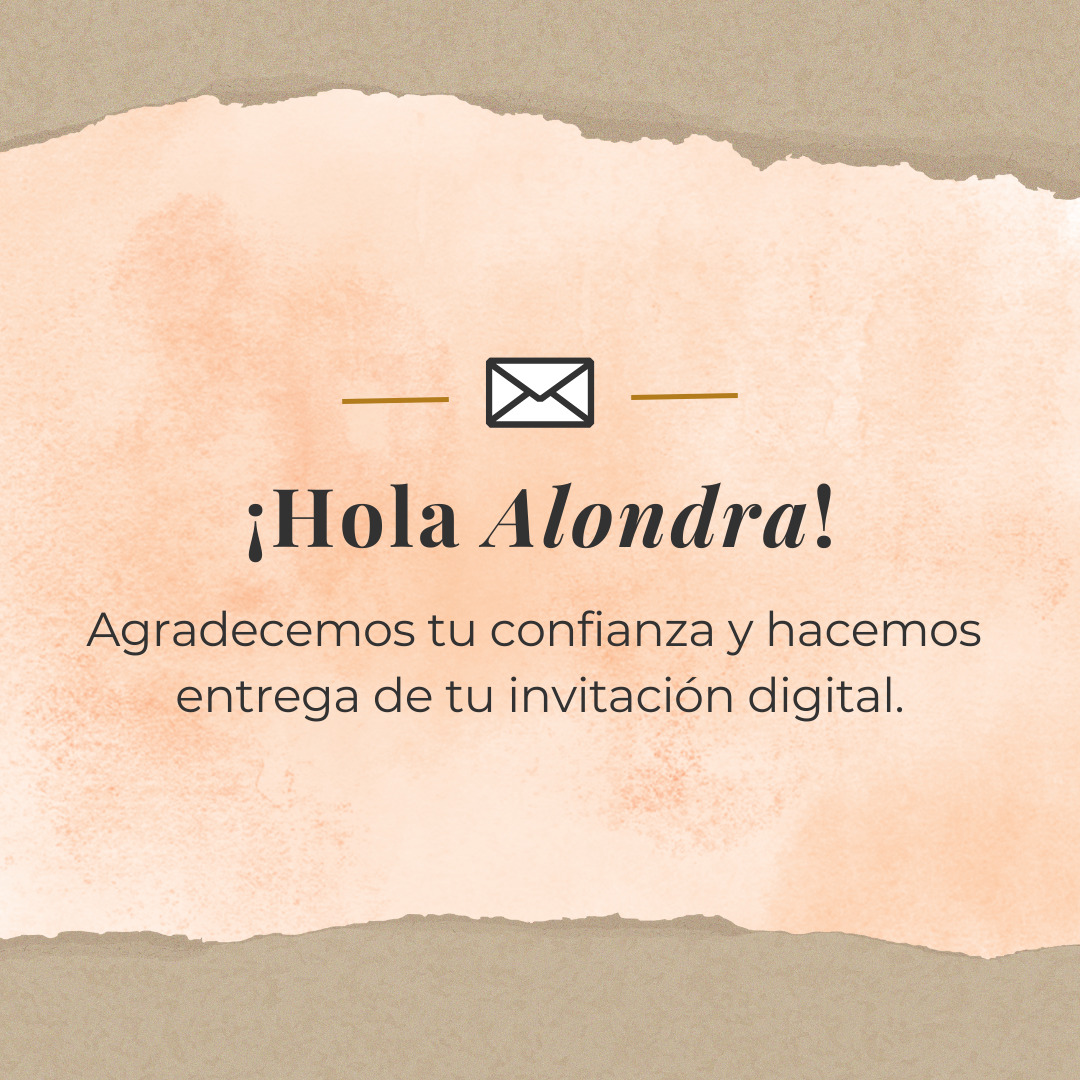
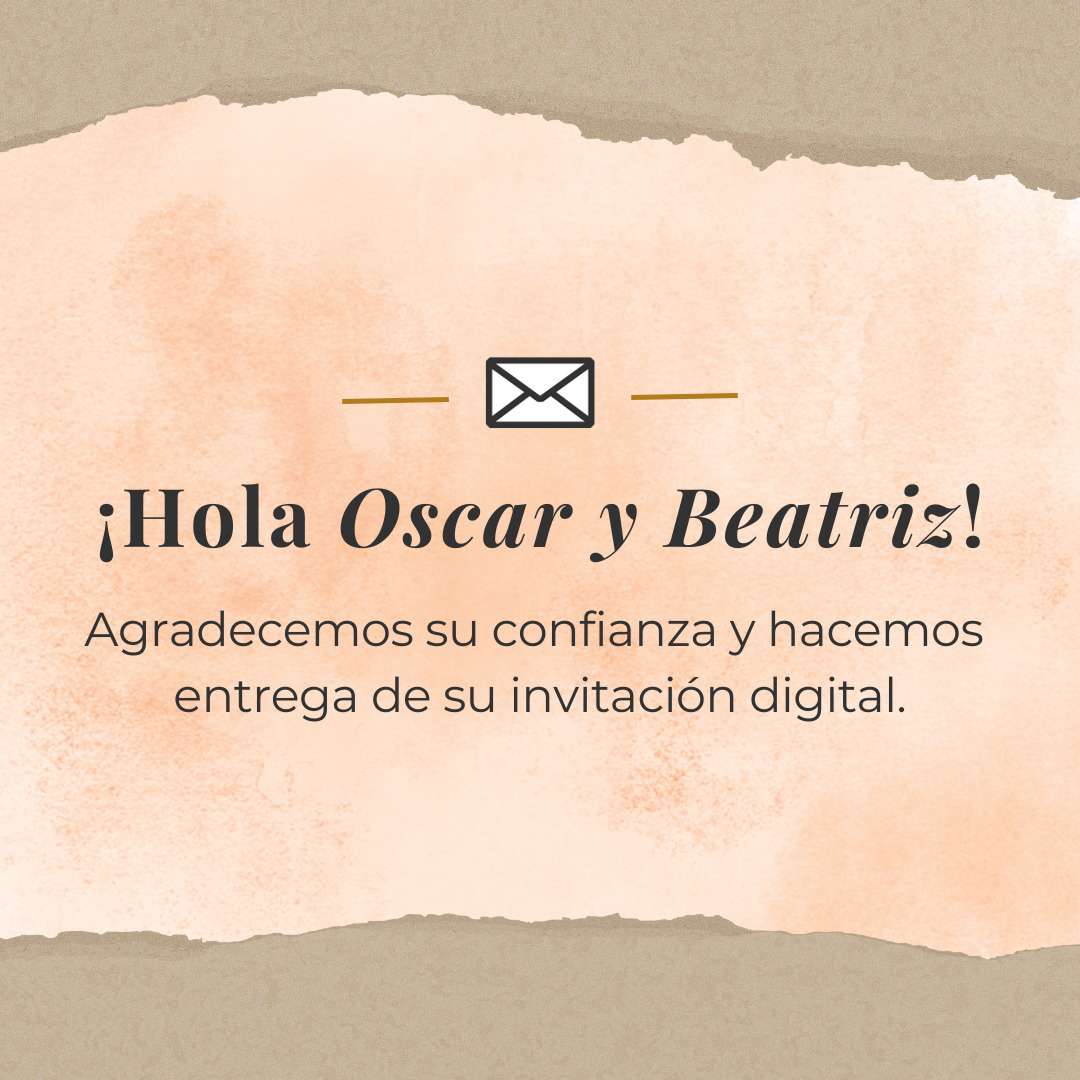
twelve commit

diff --git a/inicio.html b/inicio.html
@@ -7,14 +7,14 @@
     <noscript>
             <meta http-equiv="refresh" content="60">
         </noscript>
-        <meta name="description" content="Te invitamos a ser parte de este momento tan especial."/>
+        <meta name="description" content="Estás invitado a ser parte de este momento tan especial."/>
         <meta property="og:locale" content="es_ES"/>
         <meta property="og:type" content="website"/>
-        <meta property="og:title" content="Alondra & Eduardo | ¡NUESTRA BODA!"/>
-        <meta property="og:description" content="Te invitamos a ser parte de este momento tan especial."/>
-        <meta property="og:url" content="https://labodadealondrayeduardo.github.io/inicio.html"/>
+        <meta property="og:title" content="María José |  ¡MIS XV AÑOS!"/>
+        <meta property="og:description" content="Estás invitado a ser parte de este momento tan especial."/>
+        <meta property="og:url" content="https://misxvmariajose.github.io/inicio.html"/>
         <meta property="article:modified_time" content="2023-02-19T17:24:46+00:00"/>
-        <meta property="og:image" content="https://labodadealondrayeduardo.github.io/img/portadaMensaje.jpg"/>
+        <meta property="og:image" content="https://misxvmariajose.github.io/img/portadaMensaje.jpg"/>
         <meta property="og:image:width" content="1080"/>
         <meta property="og:image:height" content="1080"/>
         <meta property="og:image:type" content="image/jpeg"/>
@@ -25,60 +25,60 @@
       "@graph": [
           {
               "@type": "Organization",
-              "@id": "https://labodadealondrayeduardo.github.io/inicio.html/#/schema/Organization/1",
-              "name": "Alondra & Eduardo | ¡NUESTRA BODA!",
-              "url": "https://labodadealondrayeduardo.github.io/inicio.html",
+              "@id": "https://misxvmariajose.github.io/inicio.html/#/schema/Organization/1",
+              "name": "María José |  ¡MIS XV AÑOS!",
+              "url": "https://misxvmariajose.github.io/inicio.html",
               "sameAs": [
               ],
               "logo": {
                   "@type": "ImageObject",
-                  "@id": "https://labodadealondrayeduardo.github.io/img/portadaMensaje.jpg",
-                  "url": "https://labodadealondrayeduardo.github.io/img/portadaMensaje.jpg",
-                  "contentUrl": "https://labodadealondrayeduardo.github.io/img/portadaMensaje.jpg",
+                  "@id": "https://misxvmariajose.github.io/img/portadaMensaje.jpg",
+                  "url": "https://misxvmariajose.github.io/img/portadaMensaje.jpg",
+                  "contentUrl": "https://misxvmariajose.github.io/img/portadaMensaje.jpg",
                   "width": 1080,
                   "height": 1080,
                   "caption": "Example Image"
               },
               "image": {
-                  "@id": "https://labodadealondrayeduardo.github.io/img/portadaMensaje.jpg"
+                  "@id": "https://misxvmariajose.github.io/img/portadaMensaje.jpg"
               }
           },
           {
               "@type": "WebSite",
-              "@id": "https://labodadealondrayeduardo.github.io/inicio.html/#/schema/WebSite/1",
-              "url": "https://labodadealondrayeduardo.github.io/inicio.html",
-              "name": "Alondra & Eduardo | ¡NUESTRA BODA!",
+              "@id": "https://misxvmariajose.github.io/inicio.html/#/schema/WebSite/1",
+              "url": "https://misxvmariajose.github.io/inicio.html",
+              "name": "María José |  ¡MIS XV AÑOS!",
               "publisher": {
-                  "@id": "https://labodadealondrayeduardo.github.io/inicio.html/#/schema/Organization/1"
+                  "@id": "https://misxvmariajose.github.io/inicio.html/#/schema/Organization/1"
               },
               "potentialAction": {
                   "@type": "SearchAction",
-                  "target": "https://labodadealondrayeduardo.github.io/inicio.html/?s={search_term_string}",
+                  "target": "https://misxvmariajose.github.io/inicio.html/?s={search_term_string}",
                   "query-input": "required name=search_term_string"
               }
           },
           {
               "@type": "WebPage",
-              "@id": "https://labodadealondrayeduardo.github.io/inicio.html",
-              "url": "https://labodadealondrayeduardo.github.io/inicio.html",
+              "@id": "https://misxvmariajose.github.io/inicio.html",
+              "url": "https://misxvmariajose.github.io/inicio.html",
               "inLanguage": "es",
               "name": "Example Page",
               "isPartOf": {
-                  "@id": "https://labodadealondrayeduardo.github.io/inicio.html/#/schema/WebSite/1"
+                  "@id": "https://misxvmariajose.github.io/inicio.html/#/schema/WebSite/1"
               },
               "about": {
-                  "@id": "https://labodadealondrayeduardo.github.io/inicio.html/#/schema/Organization/1"
+                  "@id": "https://misxvmariajose.github.io/inicio.html/#/schema/Organization/1"
               },
               "datePublished": "2015-09-14T08:13:22+00:00",
               "dateModified": "2019-03-28T12:46:37+00:00",
-              "description": "Te invitamos a ser parte de este momento tan especial."
+              "description": "Estás invitado a ser parte de este momento tan especial."
           }
       ]
   }
         </script>
 
-         <link rel="alternate" type="application/rss+xml" title=" &raquo; Feed" href="https://labodadealondrayeduardo.github.io/inicio.html/feed/"/>
-        <link rel="alternate" type="application/rss+xml" title=" &raquo; Feed de los comentarios" href="https://labodadealondrayeduardo.github.io/inicio.html/comments/feed/"/>
+         <link rel="alternate" type="application/rss+xml" title=" &raquo; Feed" href="https://misxvmariajose.github.io/inicio.html/feed/"/>
+        <link rel="alternate" type="application/rss+xml" title=" &raquo; Feed de los comentarios" href="https://misxvmariajose.github.io/inicio.html/comments/feed/"/>
 
     <link rel="stylesheet" href="https://stackpath.bootstrapcdn.com/bootstrap/4.2.1/css/bootstrap.min.css" integrity="sha384-GJzZqFGwb1QTTN6wy59ffF1BuGJpLSa9DkKMp0DgiMDm4iYMj70gZWKYbI706tWS" crossorigin="anonymous">
     <link rel="stylesheet" href="css/demo003.css">

diff --git a/index.html b/index.html
@@ -11,11 +11,11 @@
         <meta name="description" content="Da click en el enlace para ver tu invitación."/>
         <meta property="og:locale" content="es_ES"/>
         <meta property="og:type" content="website"/>
-        <meta property="og:title" content="¡Hola Alondra!"/>
+        <meta property="og:title" content="¡Hola Oscar y Beatriz!"/>
         <meta property="og:description" content="Da click en el enlace para ver tu invitación."/>
-        <meta property="og:url" content="https://labodadealondrayeduardo.github.io/index.html"/>
+        <meta property="og:url" content="https://misxvmariajose.github.io/index.html"/>
         <meta property="article:modified_time" content="2023-02-19T17:24:46+00:00"/>
-        <meta property="og:image" content="https://labodadealondrayeduardo.github.io/img/portadaEnviar.jpg"/>
+        <meta property="og:image" content="https://misxvmariajose.github.io/img/portadaEnviar.jpg"/>
         <meta property="og:image:width" content="1080"/>
         <meta property="og:image:height" content="1080"/>
         <meta property="og:image:type" content="image/jpeg"/>
@@ -26,49 +26,49 @@
       "@graph": [
           {
               "@type": "Organization",
-              "@id": "https://labodadealondrayeduardo.github.io/index.html/#/schema/Organization/1",
-              "name": "¡Hola Alondra!",
-              "url": "https://labodadealondrayeduardo.github.io/index.html",
+              "@id": "https://misxvmariajose.github.io/index.html/#/schema/Organization/1",
+              "name": "¡Hola Oscar y Beatriz!",
+              "url": "https://misxvmariajose.github.io/index.html",
               "sameAs": [
               ],
               "logo": {
                   "@type": "ImageObject",
-                  "@id": "https://labodadealondrayeduardo.github.io/img/portadaEnviar.jpg",
-                  "url": "https://labodadealondrayeduardo.github.io/img/portadaEnviar.jpg",
-                  "contentUrl": "https://labodadealondrayeduardo.github.io/img/portadaEnviar.jpg",
+                  "@id": "https://misxvmariajose.github.io/portadaEnviar.jpg",
+                  "url": "https://misxvmariajose.github.io/img/portadaEnviar.jpg",
+                  "contentUrl": "https://misxvmariajose.github.io/img/portadaEnviar.jpg",
                   "width": 1080,
                   "height": 1080,
                   "caption": "Example Image"
               },
               "image": {
-                  "@id": "https://labodadealondrayeduardo.github.io/img/portadaEnviar.jpg"
+                  "@id": "https://misxvmariajose.github.io/img/portadaEnviar.jpg"
               }
           },
           {
               "@type": "WebSite",
-              "@id": "https://labodadealondrayeduardo.github.io/index.html/#/schema/WebSite/1",
-              "url": "https://labodadealondrayeduardo.github.io/index.html",
-              "name": "¡Hola Alondra!",
+              "@id": "https://misxvmariajose.github.io/index.html/#/schema/WebSite/1",
+              "url": "https://misxvmariajose.github.io/index.html",
+              "name": "¡Hola Oscar y Beatriz!",
               "publisher": {
-                  "@id": "https://labodadealondrayeduardo.github.io/index.html/#/schema/Organization/1"
+                  "@id": "https://misxvmariajose.github.io/index.html/#/schema/Organization/1"
               },
               "potentialAction": {
                   "@type": "SearchAction",
-                  "target": "https://labodadealondrayeduardo.github.io/index.html/?s={search_term_string}",
+                  "target": "https://misxvmariajose.github.io/index.html/?s={search_term_string}",
                   "query-input": "required name=search_term_string"
               }
           },
           {
               "@type": "WebPage",
-              "@id": "https://labodadealondrayeduardo.github.io/index.html",
-              "url": "https://labodadealondrayeduardo.github.io/index.html",
+              "@id": "https://misxvmariajose.github.io/index.html",
+              "url": "https://misxvmariajose.github.io/index.html",
               "inLanguage": "es",
               "name": "Example Page",
               "isPartOf": {
-                  "@id": "https://labodadealondrayeduardo.github.io/index.html/#/schema/WebSite/1"
+                  "@id": "https://misxvmariajose.github.io/index.html/#/schema/WebSite/1"
               },
               "about": {
-                  "@id": "https://labodadealondrayeduardo.github.io/index.html/#/schema/Organization/1"
+                  "@id": "https://misxvmariajose.github.io/index.html/#/schema/Organization/1"
               },
               "datePublished": "2015-09-14T08:13:22+00:00",
               "dateModified": "2019-03-28T12:46:37+00:00",
@@ -78,8 +78,8 @@
   }
         </script>
 
-         <link rel="alternate" type="application/rss+xml" title=" &raquo; Feed" href="https://labodadealondrayeduardo.github.io/index.html/feed/"/>
-        <link rel="alternate" type="application/rss+xml" title=" &raquo; Feed de los comentarios" href="https://labodadealondrayeduardo.github.io/index.html/comments/feed/"/>
+         <link rel="alternate" type="application/rss+xml" title=" &raquo; Feed" href="https://misxvmariajose.github.io/index.html/feed/"/>
+        <link rel="alternate" type="application/rss+xml" title=" &raquo; Feed de los comentarios" href="https://misxvmariajose.github.io/index.html/comments/feed/"/>
         
     <link rel="stylesheet" href="https://stackpath.bootstrapcdn.com/bootstrap/4.2.1/css/bootstrap.min.css" integrity="sha384-GJzZqFGwb1QTTN6wy59ffF1BuGJpLSa9DkKMp0DgiMDm4iYMj70gZWKYbI706tWS" crossorigin="anonymous">
     <link rel="stylesheet" href="css/index.css">

diff --git a/css/demo003.css b/css/demo003.css
@@ -35,6 +35,8 @@ background-size: 100%;
 background-image: url(../img/portada2.png); 
 position: relative; 
 background-attachment: fixed;
+
+
 }
 
 .contenido{
@@ -99,6 +101,8 @@ background-attachment: fixed;
     position: absolute;
     width: 100%;
     bottom: -30px;
+
+    
 }
 .curveado img{
     width: 100%;
